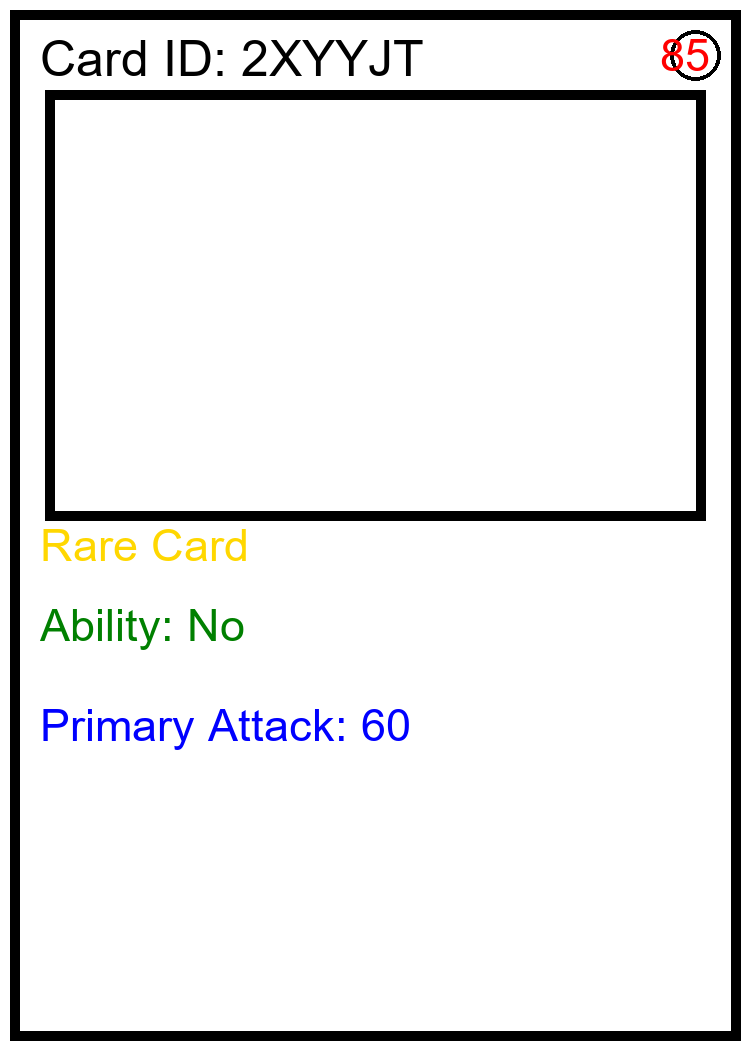
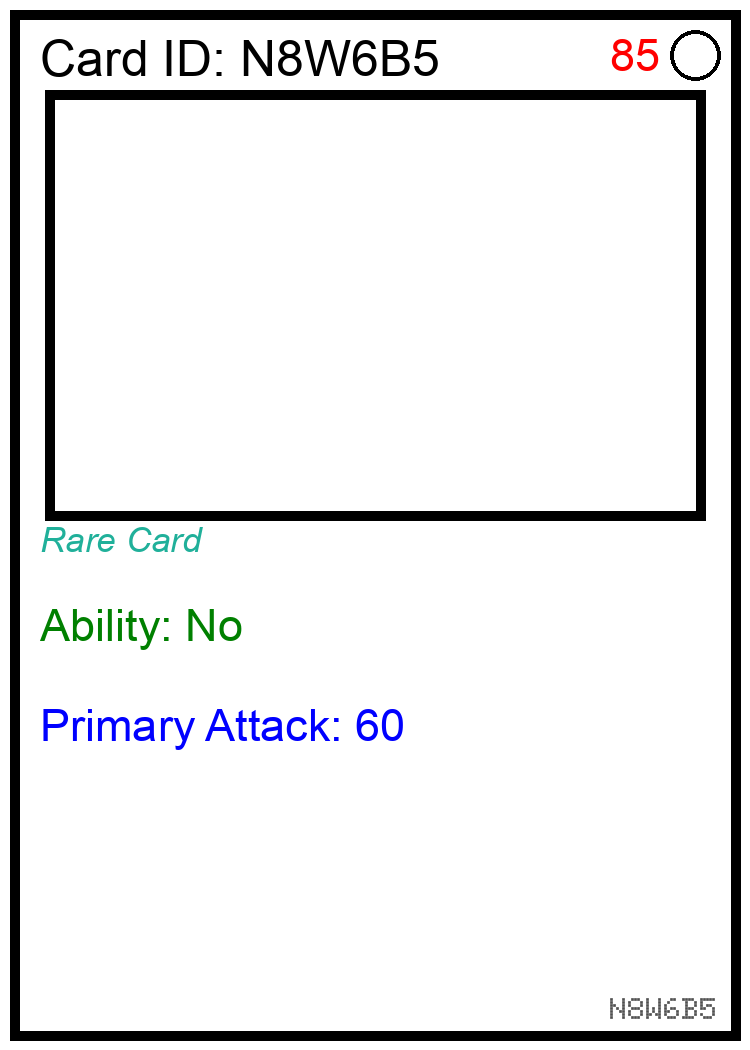
Added serial number to card template

diff --git a/Planning/card_gen.py b/Planning/card_gen.py
@@ -114,9 +114,12 @@ def generate_card_image(card, filename="card.png"):
     
     # Fonts (use a basic font if PIL default fonts are unavailable)
     try:
+        font_italic = ImageFont.truetype("arial_italic.ttf", 35)
         font = ImageFont.truetype("arial.ttf", 45)
+        font_dots = ImageFont.truetype("doto.ttf", 30)
     except:
         font = ImageFont.load_default()
+        font_italic = ImageFont.load_default()
     
     title_font = ImageFont.truetype("arial.ttf", 50) if font else font
     
@@ -131,7 +134,7 @@ def generate_card_image(card, filename="card.png"):
     draw.text((40, 30), f"Card ID: {card.unique_card_id}", fill="black", font=title_font)
     
     # Health
-    draw.text((660, 30), f"{card.health}", fill="red", font=font)
+    draw.text((610, 30), f"{card.health}", fill="red", font=font)
     
     # Attack
     draw.text((40, 700), f"Primary Attack: {card.primary_attack}", fill="blue", font=font)
@@ -145,9 +148,10 @@ def generate_card_image(card, filename="card.png"):
     #draw.text((40, 700), f"Power: {card.power_rating:.1f}", fill="black", font=font)
     
     # Rarity
-    draw.text((40, 520), f"{card.rarity} Card", fill="gold", font=font)
+    draw.text((40, 520), f"{card.rarity} Card", fill=(32, 176, 154), font=font_italic)
     
 
+    draw.text((610, height - 60), f"{card.unique_card_id}", fill=(79, 79, 79), font=font_dots)
     
     # Save image
     img.save(filename)
